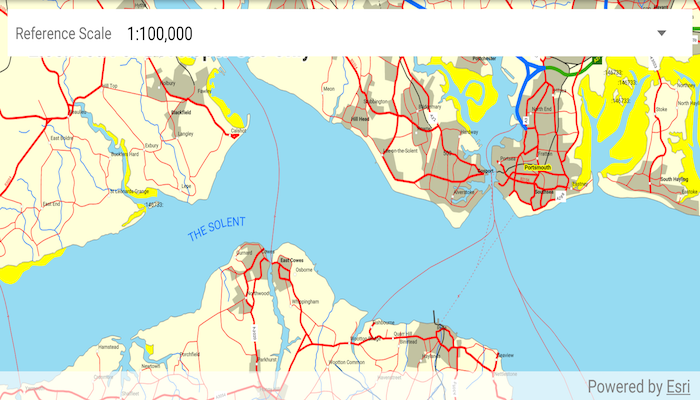
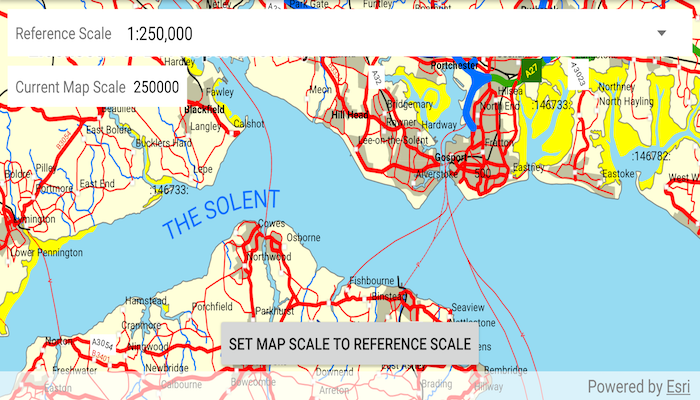
add mapscale to ref scale button and automatic menu

diff --git a/java/map-reference-scale/src/main/java/com/esri/arcgisruntime/mapreferencescale/MainActivity.java b/java/map-reference-scale/src/main/java/com/esri/arcgisruntime/mapreferencescale/MainActivity.java
@@ -26,10 +26,10 @@ import android.support.v4.content.ContextCompat;
 import android.support.v7.app.AppCompatActivity;
 import android.util.Log;
 import android.view.Menu;
-import android.view.MenuInflater;
 import android.view.MenuItem;
 import android.view.View;
 import android.widget.AdapterView;
+import android.widget.Button;
 import android.widget.Spinner;
 import android.widget.TextView;
 import android.widget.Toast;
@@ -37,7 +37,9 @@ import android.widget.Toast;
 import com.esri.arcgisruntime.layers.FeatureLayer;
 import com.esri.arcgisruntime.loadable.LoadStatus;
 import com.esri.arcgisruntime.mapping.ArcGISMap;
+import com.esri.arcgisruntime.mapping.LayerList;
 import com.esri.arcgisruntime.mapping.MobileMapPackage;
+import com.esri.arcgisruntime.mapping.Viewpoint;
 import com.esri.arcgisruntime.mapping.view.MapView;
 
 public class MainActivity extends AppCompatActivity {
@@ -45,42 +47,74 @@ public class MainActivity extends AppCompatActivity {
   private static final String TAG = MainActivity.class.getSimpleName();
 
   private MapView mMapView;
+  private MobileMapPackage mMapPackage;
+  private LayerList mOperationalLayers;
 
   @Override
   protected void onCreate(Bundle savedInstanceState) {
     super.onCreate(savedInstanceState);
     setContentView(R.layout.activity_main);
 
+    // request read permission at runtime
+    requestReadPermission();
+  }
+
+  /**
+   * Load the sample's map package data.
+   */
+  private void mapReferenceScale() {
+
     // get a reference to the map view
     mMapView = findViewById(R.id.mapView);
 
-    // get a reference to the reference scale spinner
-    Spinner referenceScaleSpinner = findViewById(R.id.reference_scale_spinner);
-    referenceScaleSpinner.setOnItemSelectedListener(new AdapterView.OnItemSelectedListener() {
-      @Override public void onItemSelected(AdapterView<?> adapterView, View view, int position, long l) {
-        // get the reference scale from the spinner in the one to twenty-five thousand format (ie 1:25,000)
-        String referenceScaleString = String.valueOf(adapterView.getItemAtPosition(position));
-        // use regex to get the reference scale as a number string
-        referenceScaleString = referenceScaleString.substring(referenceScaleString.indexOf(":") + 1).replaceAll(",", "");
-        // set the reference scale with the double value of the reference scale string
-        setReferenceScale(Double.valueOf(referenceScaleString));
-      }
+    // load Yenisey mobile map package
+    mMapPackage = new MobileMapPackage(
+        Environment.getExternalStorageDirectory() + getString(R.string.isle_of_wight_mmpk_path));
+    mMapPackage.loadAsync();
+    mMapPackage.addDoneLoadingListener(() -> {
+      // get the first map from the map package
+      ArcGISMap map = mMapPackage.getMaps().get(0);
+      if (mMapPackage.getLoadStatus() == LoadStatus.LOADED) {
+        // set the map package map to map view's map
+        mMapView.setMap(map);
 
-      @Override public void onNothingSelected(AdapterView<?> adapterView) {
+        // get a reference to the reference scale spinner
+        Spinner referenceScaleSpinner = findViewById(R.id.reference_scale_spinner);
+        referenceScaleSpinner.setOnItemSelectedListener(new AdapterView.OnItemSelectedListener() {
+          @Override public void onItemSelected(AdapterView<?> adapterView, View view, int position, long l) {
+            // get the reference scale from the spinner in the one to twenty-five thousand format (ie 1:25,000)
+            String referenceScaleString = String.valueOf(adapterView.getItemAtPosition(position));
+            // use regex to get the reference scale as a number string
+            referenceScaleString = referenceScaleString.substring(referenceScaleString.indexOf(":") + 1)
+                .replaceAll(",", "");
+            // set the reference scale with the double value of the reference scale string
+            setReferenceScale(Double.valueOf(referenceScaleString));
+          }
 
+          @Override public void onNothingSelected(AdapterView<?> adapterView) {
+
+          }
+        });
+
+        // set initial selection to the 3rd option, 1:250,000
+        referenceScaleSpinner.setSelection(2);
+
+        // update map scale indicator on map scale change
+        TextView mapScale = findViewById(R.id.currMapScaleTextView);
+        mMapView.addMapScaleChangedListener(
+            mapScaleChangedEvent -> mapScale.setText(String.valueOf(Math.round(mMapView.getMapScale()))));
+
+        // user the current viewpoint's center and the current reference scale to set a new viewpoint
+        Button matchScalesButton = findViewById(R.id.matchScalesButton);
+        matchScalesButton.setOnClickListener(view -> mMapView.setViewpointAsync(new Viewpoint(
+            mMapView.getCurrentViewpoint(Viewpoint.Type.CENTER_AND_SCALE).getTargetGeometry().getExtent().getCenter(),
+            mMapView.getMap().getReferenceScale()), 1));
+      } else {
+        String error = "Map package failed to load: " + mMapPackage.getLoadError().getMessage();
+        Toast.makeText(this, error, Toast.LENGTH_LONG).show();
+        Log.e(TAG, error);
       }
     });
-
-    referenceScaleSpinner.setSelection(2);
-
-    TextView mapScale = findViewById(R.id.mapScaleTextView);
-
-    mMapView.addMapScaleChangedListener(
-        mapScaleChangedEvent -> mapScale.setText(String.valueOf(mMapView.getMapScale())));
-
-
-    // request read permission at runtime
-    requestReadPermission();
   }
 
   /**
@@ -100,30 +134,6 @@ public class MainActivity extends AppCompatActivity {
    */
   private void setScaleSymbol(FeatureLayer featureLayer, boolean isScaleSymbols) {
     featureLayer.setScaleSymbols(isScaleSymbols);
-    Toast.makeText(this, featureLayer.getName() + " isScaleSymbols() = " + featureLayer.isScaleSymbols(),
-        Toast.LENGTH_LONG).show();
-  }
-
-  /**
-   * Load the sample's map package data.
-   */
-  private void loadMapPackage() {
-    // load Yenisey mobile map package
-    MobileMapPackage mapPackage = new MobileMapPackage(
-        Environment.getExternalStorageDirectory() + getString(R.string.isle_of_wight_mmpk_path));
-    mapPackage.loadAsync();
-    mapPackage.addDoneLoadingListener(() -> {
-      // get the first map from the map package
-      ArcGISMap map = mapPackage.getMaps().get(0);
-      if (mapPackage.getLoadStatus() == LoadStatus.LOADED) {
-        // set the map package map to map view's map
-        mMapView.setMap(map);
-      } else {
-        String error = "Map package failed to load: " + mapPackage.getLoadError().getMessage();
-        Toast.makeText(this, error, Toast.LENGTH_LONG).show();
-        Log.e(TAG, error);
-      }
-    });
   }
 
   /**
@@ -134,7 +144,7 @@ public class MainActivity extends AppCompatActivity {
     String[] reqPermission = { Manifest.permission.READ_EXTERNAL_STORAGE };
     int requestCode = 2;
     if (ContextCompat.checkSelfPermission(this, reqPermission[0]) == PackageManager.PERMISSION_GRANTED) {
-      loadMapPackage();
+      mapReferenceScale();
     } else {
       ActivityCompat.requestPermissions(this, reqPermission, requestCode);
     }
@@ -146,7 +156,7 @@ public class MainActivity extends AppCompatActivity {
   @Override
   public void onRequestPermissionsResult(int requestCode, @NonNull String[] permissions, @NonNull int[] grantResults) {
     if (grantResults.length > 0 && grantResults[0] == PackageManager.PERMISSION_GRANTED) {
-      loadMapPackage();
+      mapReferenceScale();
     } else {
       // report to user that permission was denied
       Toast.makeText(this, getString(R.string.map_reference_read_permission_denied), Toast.LENGTH_SHORT).show();
@@ -154,22 +164,25 @@ public class MainActivity extends AppCompatActivity {
   }
 
   @Override public boolean onCreateOptionsMenu(Menu menu) {
-    MenuInflater inflater = getMenuInflater();
-    inflater.inflate(R.menu.reference_scale, menu);
+    mMapPackage.addDoneLoadingListener(() -> {
+      // get the map's operational layer list
+      mOperationalLayers = mMapPackage.getMaps().get(0).getOperationalLayers();
+      // add each of those layers to the menu and set them to checked
+      for (int i = 0; i < mOperationalLayers.size(); i ++) {
+        menu.add(Menu.NONE, i, Menu.NONE, mOperationalLayers.get(i).getName());
+        menu.getItem(i).setChecked(true);
+        menu.getItem(i).setCheckable(true);
+      }
+      menu.setGroupCheckable(0, true, false);
+    });
     return super.onCreateOptionsMenu(menu);
   }
 
   @Override public boolean onOptionsItemSelected(MenuItem item) {
-    int i = item.getItemId();
-    if (i == R.id.setScaleSymbolsCities) {
-      setScaleSymbol((FeatureLayer) mMapView.getMap().getOperationalLayers().get(0), !item.isChecked());
-      item.setChecked(!item.isChecked());
-    } else if (i == R.id.setScaleSymbolsRiver) {
-      setScaleSymbol((FeatureLayer) mMapView.getMap().getOperationalLayers().get(1), !item.isChecked());
-      item.setChecked(!item.isChecked());
-    } else {
-      Log.e(TAG, "Menu option not implemented");
-    }
+    // toggle the checkbox of the menu item
+    item.setChecked(!item.isChecked());
+    // set the feature layer to honor the reference scale, or not
+    setScaleSymbol((FeatureLayer) mOperationalLayers.get(item.getItemId()), item.isChecked());
     return super.onOptionsItemSelected(item);
   }
 

diff --git a/java/map-reference-scale/README.md b/java/map-reference-scale/README.md
@@ -11,6 +11,7 @@ Map annotations are typically only relevant at certain scales. For instance, ann
 ## How to use the sample
 * Use the spinner at the top to set the map's reference scale.
 * Use the menu checkboxes to set which feature layers should scale according to the reference scale.
+* Click the button at the bottom to set the map scale (zoom) to the reference scale.
 
 ## How it works
 * Get and set the reference scale property on the `ArcGISMap`.
